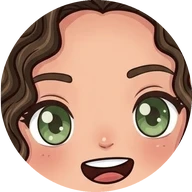
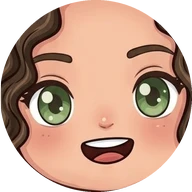
Gastos compartidos: caras con los ojos más arriba
Claude-Session: https://claude.ai/code/session_01LMZK851QBDu7shv4jjJpii

diff --git a/compartidos.html b/compartidos.html
@@ -207,7 +207,7 @@ const NOM=(()=>{const n=(rd('ahorros_v1',{})||{}).names||{};return {j:n.j||'Juli
    Cada mes hasta el que viene (por ejemplo, en enero se ve febrero pero no marzo) se crea solo el gasto de la serie con id "serie_AAAA-MM", copiando descripción y monto del mes anterior
    y sin quién lo pagó; así si los dos celus lo crean a la vez, es el mismo y no se duplica. */
 let G=rd(LS,{})||{},S=rd(LS+'_s',{})||{};
-const FOTO={j:'img/avatar-juli.webp?v=5',a:'img/avatar-ale.webp?v=5'};
+const FOTO={j:'img/avatar-juli.webp?v=6',a:'img/avatar-ale.webp?v=6'};
 const mesDe=f=>f.slice(0,7);
 const mesActual=()=>hoyISO().slice(0,7);
 /* el mes que viene (AAAA-MM): los fijos se precargan hasta ahí nomás, para no llenar la base de meses lejanos */
